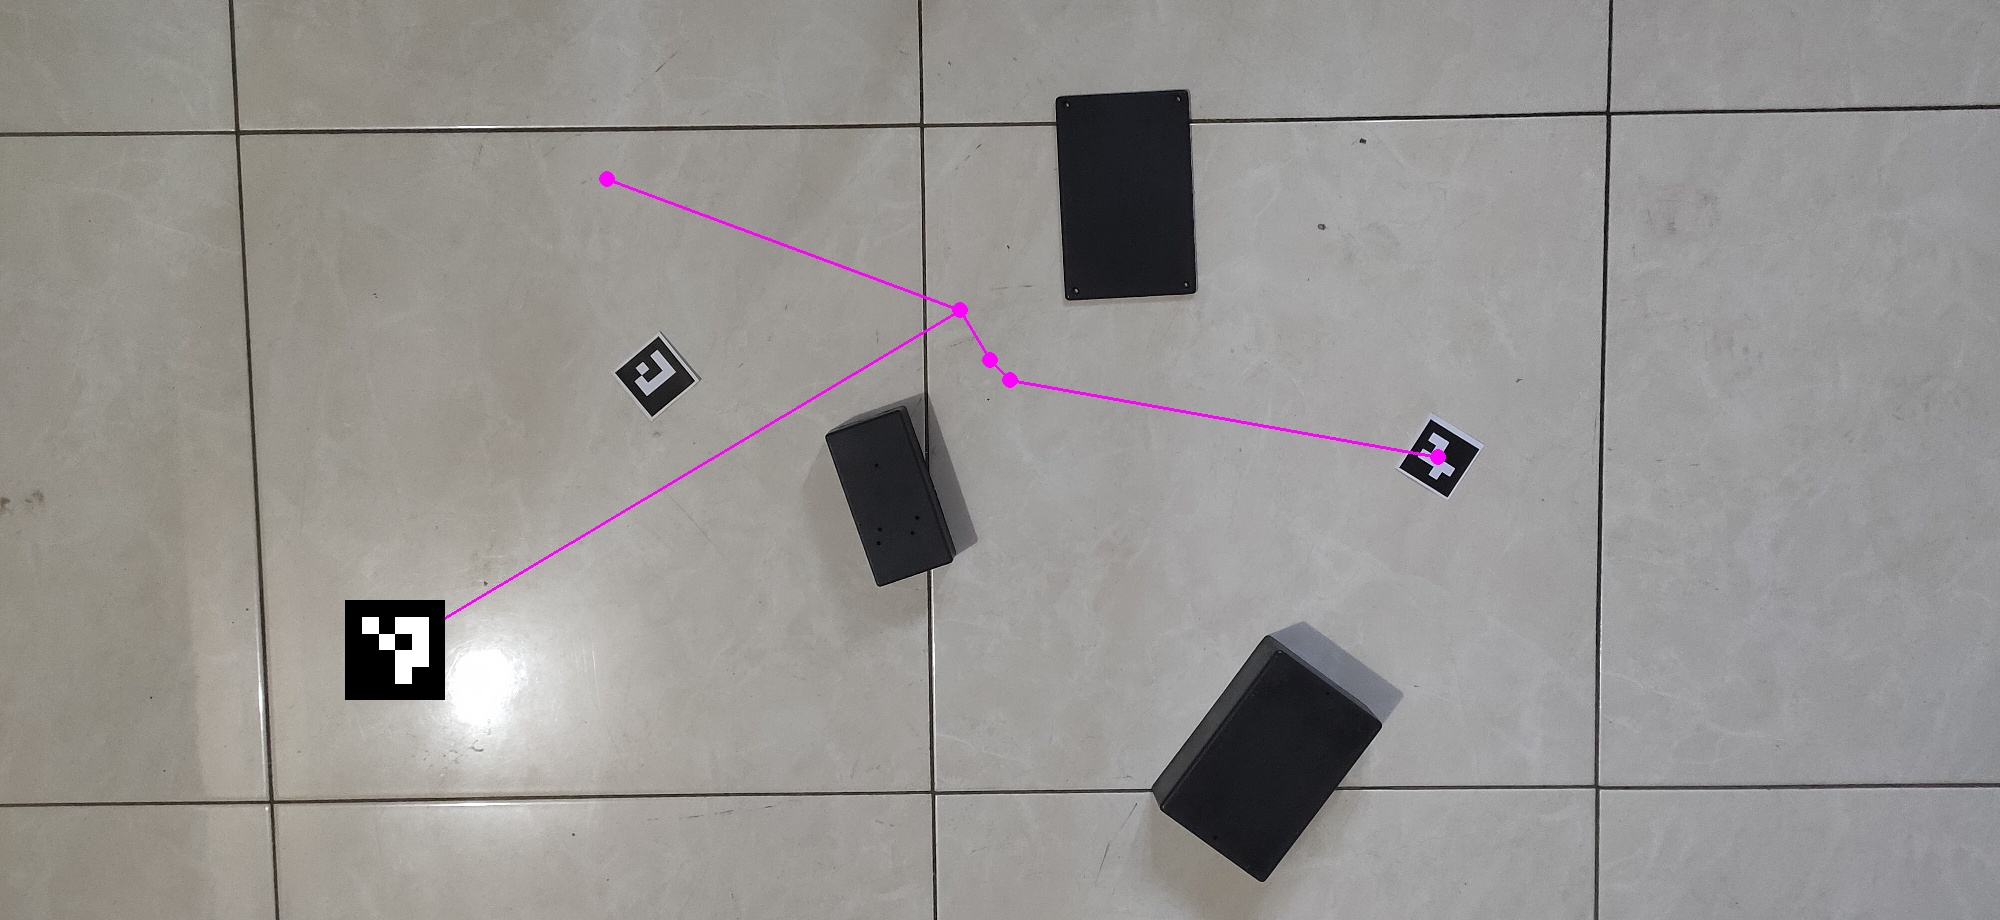
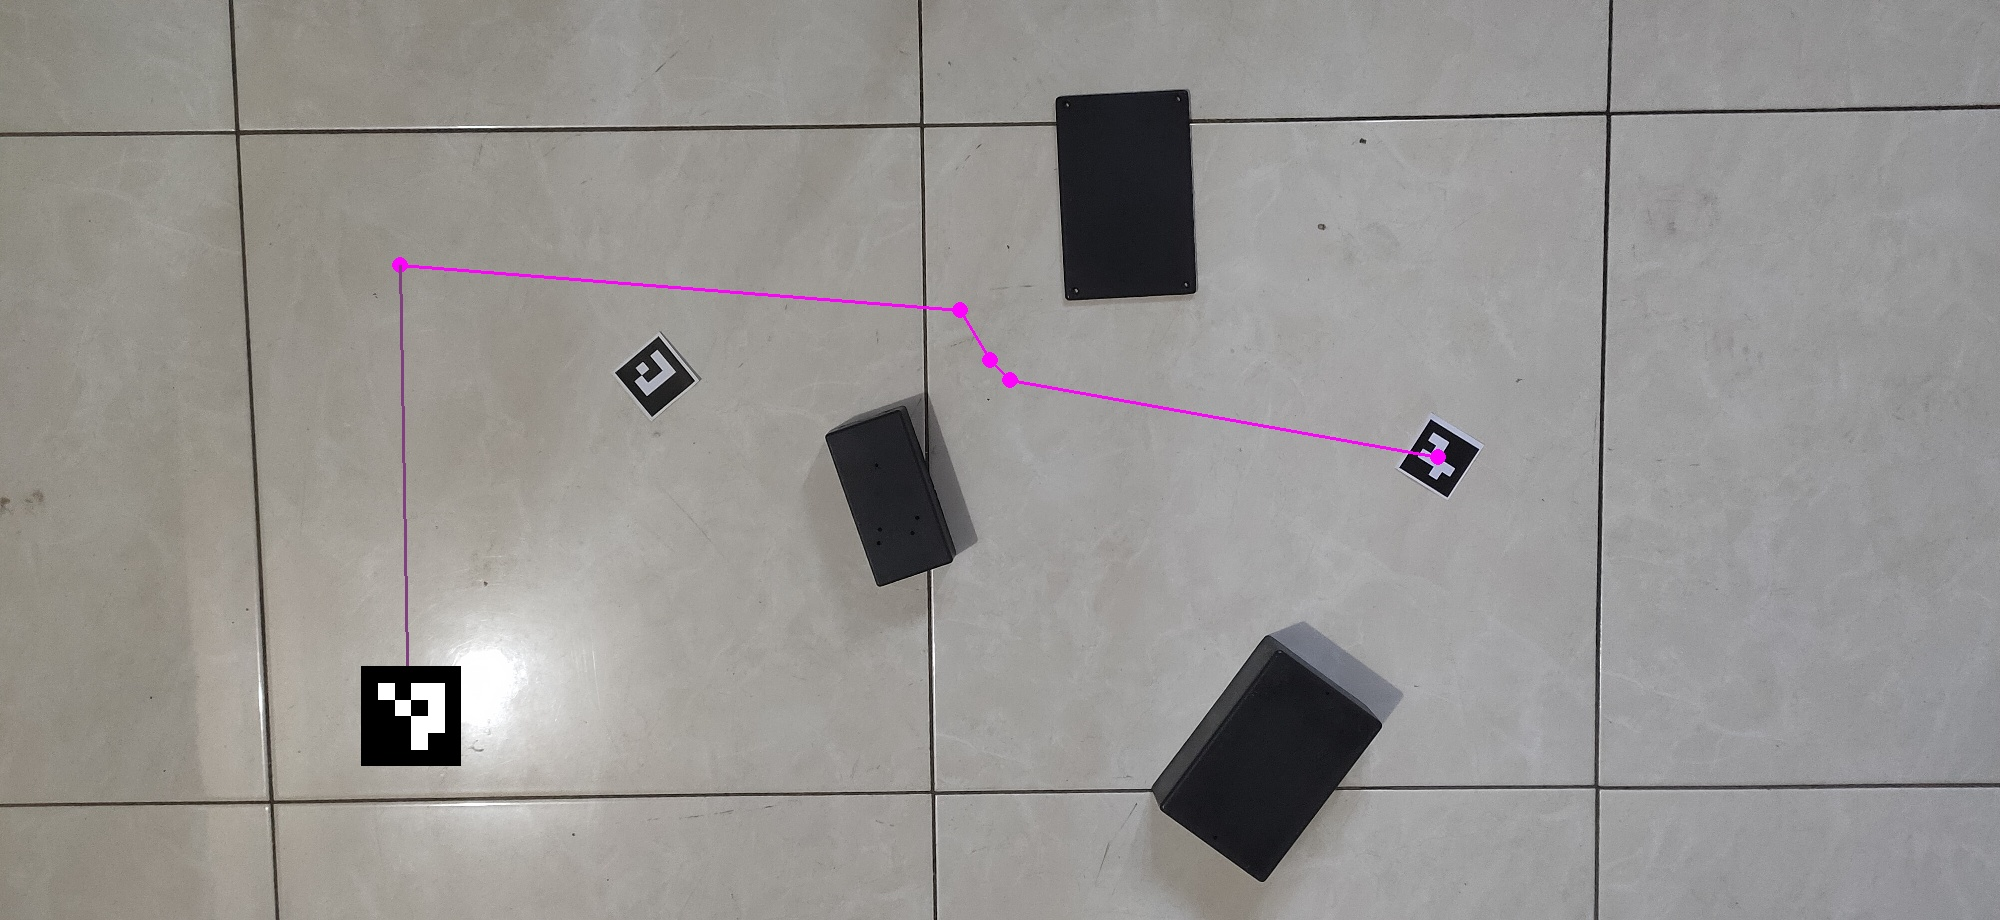
fix navigate to first point

diff --git a/Z_Simulasi.py b/Z_Simulasi.py
@@ -23,7 +23,7 @@ robot_original = pygame.transform.scale(robot_original, (100, 100))
 # Variabel untuk sudut rotasi
 rotation_angle = 0
 path = None
-idx = 1
+idx = 0
 
 # Loop Utama
 running = True
@@ -53,7 +53,7 @@ while running:
                 rotation_angle -= 10
 
             if event.key == pygame.K_r:
-                path = None  # Reset path, agar cari ulang
+                path = None  
 
     # Dapatkan posisi mouse
     mouse_x, mouse_y = pygame.mouse.get_pos()
@@ -70,7 +70,6 @@ while running:
 
         # Pastikan getPath mengembalikan list atau None
         path = getPath(screenshot, 10, 0, 7)
-        print(f"Path ditemukan: {path}")
 
     # === Gambar ke Window ===
 
@@ -86,12 +85,13 @@ while running:
                 pygame.draw.line(window, (255, 0, 255), (y, x), (next_y, next_x), 3)
 
     if path != None and path != 0:
-        print(path[idx])
         cv2.imwrite('gambar.jpg', screenshot)
-        dt = GetOrientation(screenshot, path[idx], 0, False)
         y, x = path[idx]
-        start = dt['koordinat']['start']
-        pygame.draw.line(window, (255, 0, 255), start, (x, y), 3)
+        dt = GetOrientation(screenshot, path[idx], 0, False)
+        if dt and dt != 0:
+            start = dt['koordinat']['start']
+            if start != None:
+                pygame.draw.line(window, (128, 64, 128), start, (x, y), 3)
 
     # Gambar robot
     window.blit(rotated_robot, robot_rect.topleft)
